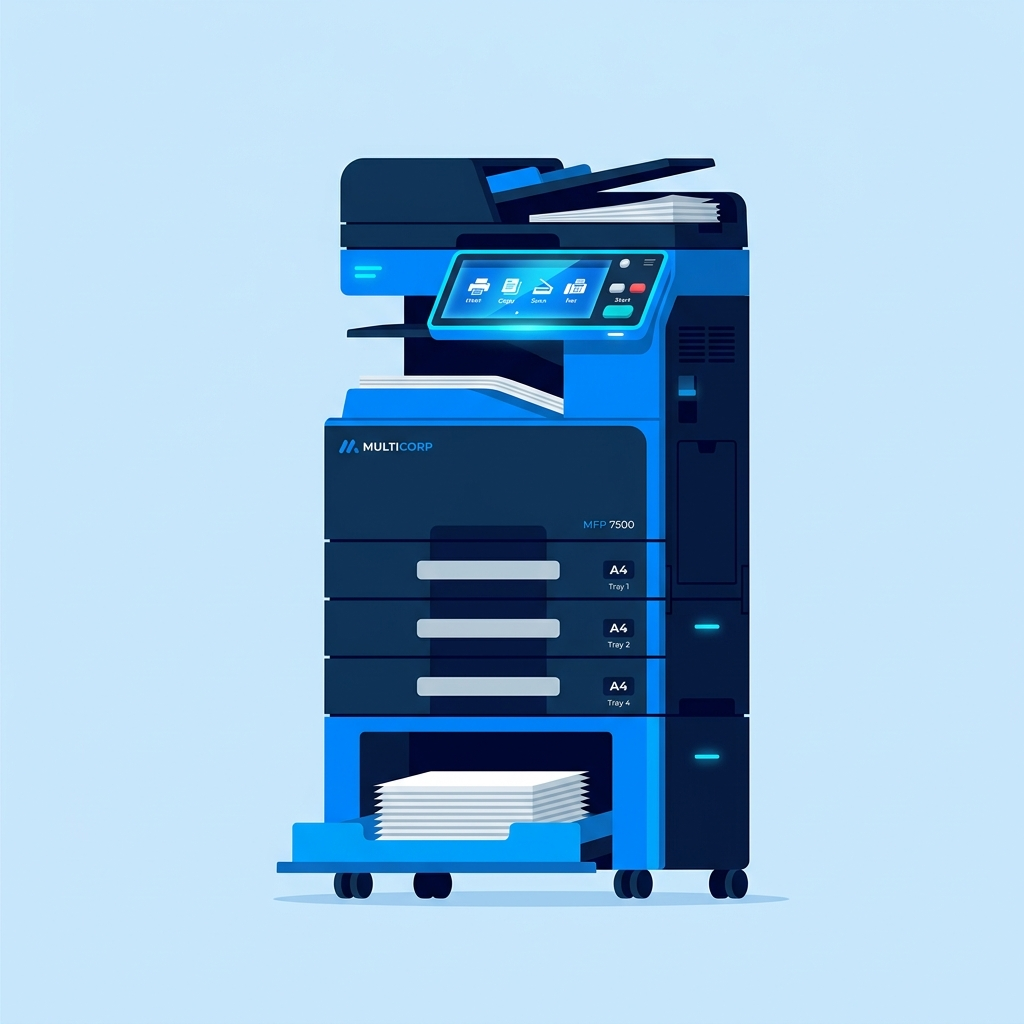
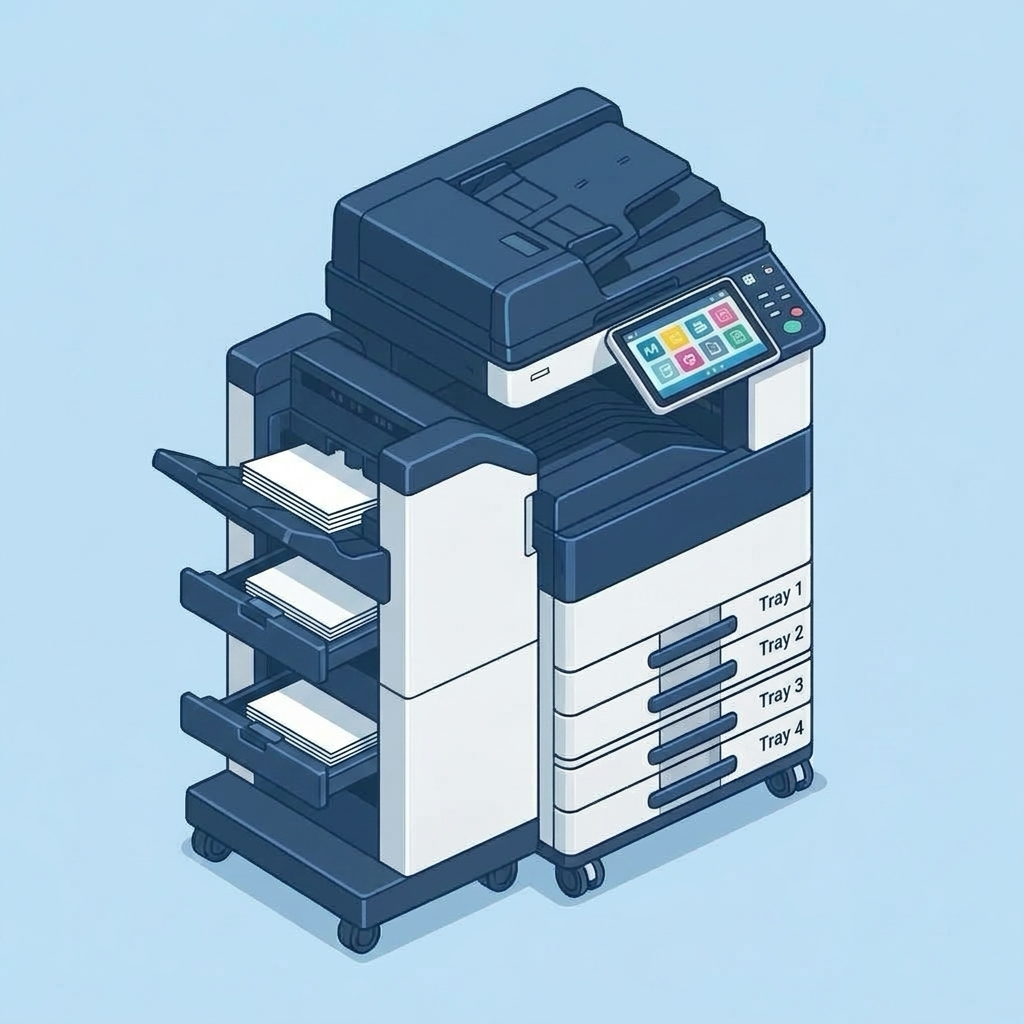
디자인 에셋 업데이트: 페이지별 맞춤 일러스트(copier-office, printer-small, copier-large, supplies, maintenance) 신규 렌더링 및 페이지 연동 완료

diff --git a/supplies.html b/supplies.html
@@ -30,14 +30,14 @@
   <meta property="og:url" content="https://inkguy.kr/supplies.html" />
   <meta property="og:title" content="잉크·토너 공급 | 사무실 소모품 상담" />
   <meta property="og:description" content="프린터와 복합기 사용량에 맞춘 잉크·토너 공급을 안내합니다. 정품, 재생품, 호환품 등 예산과 환경에 맞는 소모품을 상담해드립니다." />
-  <meta property="og:image" content="https://inkguy.kr/assets/images/copier-scan.png" />
+  <meta property="og:image" content="https://inkguy.kr/assets/images/supplies.png" />
   
   <!-- Twitter -->
   <meta property="twitter:card" content="summary_large_image" />
   <meta property="twitter:url" content="https://inkguy.kr/supplies.html" />
   <meta property="twitter:title" content="잉크·토너 공급 | 사무실 소모품 상담" />
   <meta property="twitter:description" content="프린터와 복합기 사용량에 맞춘 잉크·토너 공급을 안내합니다. 정품, 재생품, 호환품 등 예산과 환경에 맞는 소모품을 상담해드립니다." />
-  <meta property="twitter:image" content="https://inkguy.kr/assets/images/copier-scan.png" />
+  <meta property="twitter:image" content="https://inkguy.kr/assets/images/supplies.png" />
 
   <link rel="icon" href="assets/images/favicon.ico" type="image/x-icon" />
   <link rel="stylesheet" as="style" crossorigin href="https://cdn.jsdelivr.net/gh/orioncactus/pretendard@v1.3.9/dist/web/static/pretendard.css" />
@@ -100,7 +100,7 @@
           <div class="hero-meta">수원·용인·화성 상담 가능</div>
         </div>
         <div class="hero-visual">
-          <img src="assets/images/copier-scan.png" alt="프린터 및 복합기 맞춤형 잉크·토너 소모품 공급" style="width:100%; border-radius:18px; display:block;">
+          <img src="assets/images/supplies.png" alt="프린터 및 복합기 맞춤형 잉크·토너 소모품 공급" style="width:100%; border-radius:18px; display:block;">
         </div>
       </div>
     </section>

diff --git a/maintenance.html b/maintenance.html
@@ -30,14 +30,14 @@
   <meta property="og:url" content="https://inkguy.kr/maintenance.html" />
   <meta property="og:title" content="프린터·복합기 유지보수 | 빠른 점검과 안정적 운영" />
   <meta property="og:description" content="프린터와 복합기 장애, 출력 품질 문제, 연결 오류를 빠르게 점검하고 대응하는 유지보수 서비스를 안내합니다." />
-  <meta property="og:image" content="https://inkguy.kr/assets/images/copier-office.png" />
+  <meta property="og:image" content="https://inkguy.kr/assets/images/maintenance.png" />
   
   <!-- Twitter -->
   <meta property="twitter:card" content="summary_large_image" />
   <meta property="twitter:url" content="https://inkguy.kr/maintenance.html" />
   <meta property="twitter:title" content="프린터·복합기 유지보수 | 빠른 점검과 안정적 운영" />
   <meta property="twitter:description" content="프린터와 복합기 장애, 출력 품질 문제, 연결 오류를 빠르게 점검하고 대응하는 유지보수 서비스를 안내합니다." />
-  <meta property="twitter:image" content="https://inkguy.kr/assets/images/copier-office.png" />
+  <meta property="twitter:image" content="https://inkguy.kr/assets/images/maintenance.png" />
 
   <link rel="icon" href="assets/images/favicon.ico" type="image/x-icon" />
   <link rel="stylesheet" as="style" crossorigin href="https://cdn.jsdelivr.net/gh/orioncactus/pretendard@v1.3.9/dist/web/static/pretendard.css" />
@@ -101,7 +101,7 @@
           <div class="hero-meta">수원·용인·화성 방문 점검 가능</div>
         </div>
         <div class="hero-visual">
-          <img src="assets/images/copier-office.png" alt="프린터·복합기 신속 점검 및 유지보수 A/S" style="width:100%; border-radius:18px; display:block;">
+          <img src="assets/images/maintenance.png" alt="프린터·복합기 신속 점검 및 유지보수 A/S" style="width:100%; border-radius:18px; display:block;">
         </div>
       </div>
     </section>
